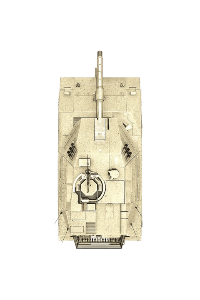
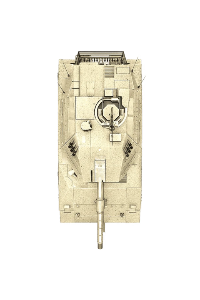
Updated images to account for window size change. Flipped tank image and half circle shot pattern direction, so enemies can come from the top of the screen rather than the bottom. Updated triangle movement pattern to also have movement start at the top of the screen.

Changed region(s): [[0.27, 0.15, 0.72, 0.84]]

diff --git a/Car Chase Bullet Hell Game/TriangleMovementPattern.cs b/Car Chase Bullet Hell Game/TriangleMovementPattern.cs
@@ -12,7 +12,7 @@ namespace Car_Chase_Bullet_Hell_Game
     {
         private float speed = 5f;
         private float time = 0;
-        private Point[] points = { new Point(400, 1400), new Point(2300, 1400), new Point(1325, 700) };
+        private Point[] points = { new Point(100, 200), new Point(950, 200), new Point(525, 50) };
         private int pointIndex = 0;
         private int lap = 0;
         private double x_move = 0, y_move = 0, distance = 0, direction = 0;
@@ -23,8 +23,8 @@ namespace Car_Chase_Bullet_Hell_Game
             // Set enemy at the correct position at the start of the movement pattern
             if (lap == 0)
             {
-                enemy.DestinationRectangle.X = 300;
-                enemy.DestinationRectangle.Y = 2200;
+                enemy.DestinationRectangle.X = -10;
+                enemy.DestinationRectangle.Y = -10;
                 lap++;
             }
             //Update the index when it goes out of range
@@ -40,19 +40,19 @@ namespace Car_Chase_Bullet_Hell_Game
                 x_move = points[pointIndex].X - enemy.DestinationRectangle.X;
                 y_move = points[pointIndex].Y - enemy.DestinationRectangle.Y;
                 distance = Math.Sqrt(Math.Pow(x_move, 2) + Math.Pow(y_move, 2));
-                direction = speed / distance;
+                direction = speed/distance;
                 //Update destination rectangles
                 if (x_move != 0)
                 {
-                    enemy.DestinationRectangle.X += (int)(x_move * direction);
+                    enemy.DestinationRectangle.X += (int)(x_move*direction);
                 }
                 if (y_move != 0)
                 {
-                    enemy.DestinationRectangle.Y += (int)(y_move * direction);
+                    enemy.DestinationRectangle.Y += (int)(y_move*direction);
                 }
             }
             //Update the index of the point we are trying to get to once we have reached the previous point.
-            if (enemy.DestinationRectangle.X == points[pointIndex].X && enemy.DestinationRectangle.Y == points[pointIndex].Y)
+            if ((enemy.DestinationRectangle.X >= (points[pointIndex].X-5) && enemy.DestinationRectangle.X <= (points[pointIndex].X + 5)) && (enemy.DestinationRectangle.Y >= (points[pointIndex].Y-5) && enemy.DestinationRectangle.Y <= (points[pointIndex].Y + 5)))
             {
                 pause = true;
                 pointIndex++;

diff --git a/Car Chase Bullet Hell Game/HalfCircleShotPattern.cs b/Car Chase Bullet Hell Game/HalfCircleShotPattern.cs
@@ -39,7 +39,7 @@ namespace Car_Chase_Bullet_Hell_Game
             {
                 StraightShot shot = new StraightShot();
                 shot.LoadContent(content, asset);
-                shot.Direction = -offset * i;
+                shot.Direction = offset * i;
                 shot.DestinationRectangle.X = point.X - (shot.DestinationRectangle.Width / 2);
                 shot.DestinationRectangle.Y = point.Y - (shot.DestinationRectangle.Height / 2);
 
